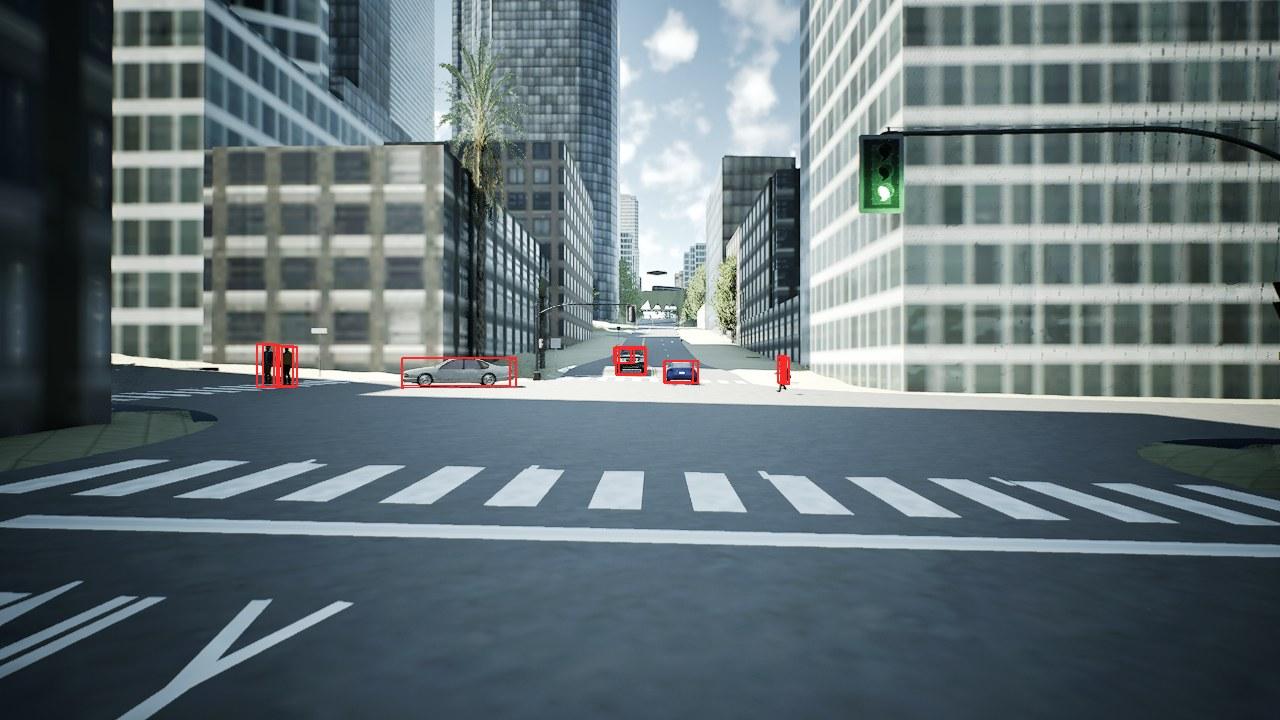
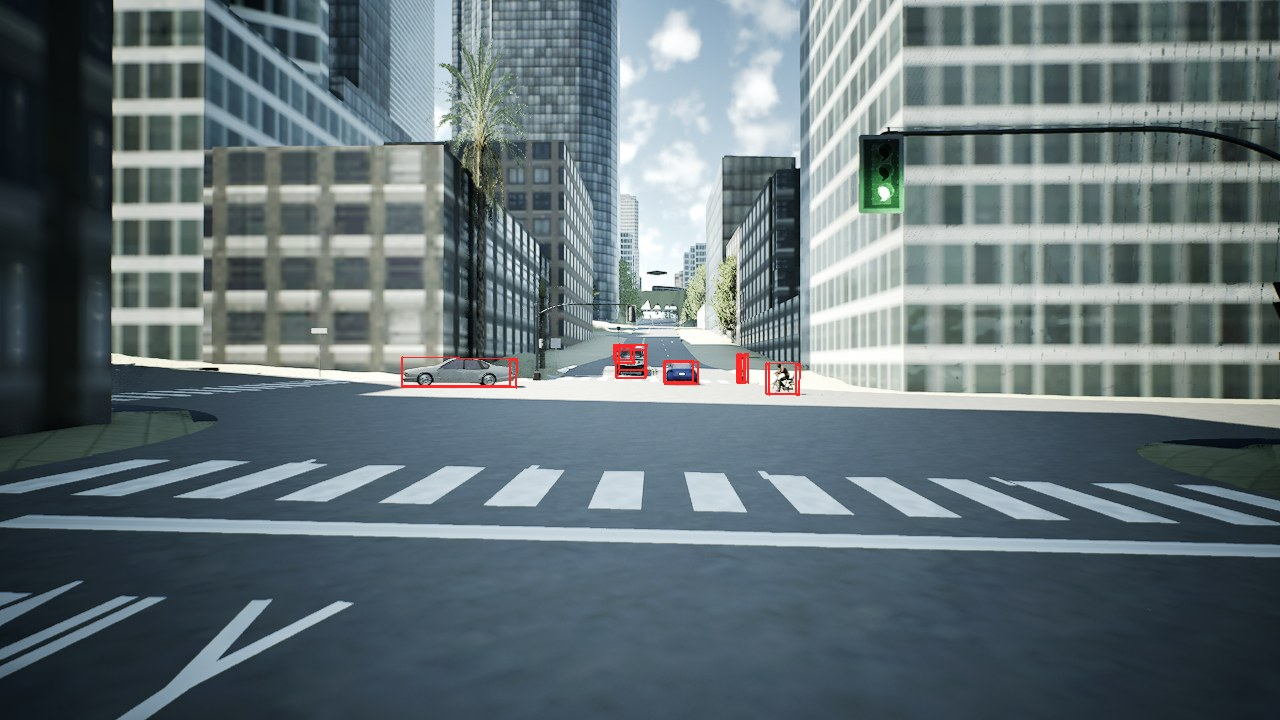
Recording fixes: moving bike, walker speed, ground heights; raw dumps; pipeline script
- static.prop.mesh ignores set_transform; spawned with mass > 0 (then physics off) it moves (prop_motion_test.py);
  the cyclist's box is the bike mesh's measured box (CARLA reports an inconsistent box for a rotated prop)
- CARLA ue5-dev walks a WalkerControl speed v at v * 200 / 4096 (WalkerController.cpp divides by a hard-coded
  4096 cm/s; the line setting MaxWalkSpeed to it is disabled for UE5): commands scaled by 4096 / 200, measured 0.0488 x
- road heights for every kinematic pose computed before any actor exists (projections hit the vehicle's own roof:
  1604 fallbacks in rec01, 0 now); walker boxes turned to the walking direction
- --raw dumps BGRA buffers and raw_to_png.py converts in parallel: 30 min -> 4 min per recording
- run_pipeline.ps1: recording + re-simulation, PNG, instance map, dataset, NCore, exposure check, train, evaluate, report

Changed region(s): [[0.4688, 0.4583, 0.625, 0.55], [0.3125, 0.4889, 0.4062, 0.55], [0.1875, 0.4583, 0.25, 0.55]]

diff --git a/scenario/record.py b/scenario/record.py
@@ -19,7 +19,7 @@ controller (their deviation from the live run is measured), the ego is parked ou
 the front camera's intrinsics follow the recorded ego pose at lateral offsets (ego frame, + = right); RGB / depth /
 instance images every EVERY-th tick -> OUT/novel/off_<dy>/..., poses -> OUT/replay.json. (CARLA's recorder replays
 the kinematic actors 1-2 ticks late in this build, so its replay is not used for ground truth.)
-usage: record.py PLAN_JSON OUT [--probe] [--ticks N] [--res 1280x720]
+usage: record.py PLAN_JSON OUT [--probe] [--ticks N] [--res 1280x720] [--raw]
        record.py PLAN_JSON OUT --novel LIVE_REC [--offsets -3,-2,-1,0,1,2,3] [--every 4]"""
 import json, math, os, queue, subprocess, sys, time, traceback
 import carla
@@ -37,6 +37,14 @@ NOVEL = os.path.abspath(sys.argv[sys.argv.index("--novel") + 1]) if "--novel" in
 OFFS = [float(v) for v in (sys.argv[sys.argv.index("--offsets") + 1] if "--offsets" in sys.argv else "-3,-2,-1,0,1,2,3").split(",")]
 EVERY = int(sys.argv[sys.argv.index("--every") + 1]) if "--every" in sys.argv else 4
 LIVE = [json.loads(l) for l in open(os.path.join(NOVEL, "frames.jsonl"))] if NOVEL else None
+RAW = "--raw" in sys.argv          # dump BGRA buffers (fast); convert/raw_to_png.py writes the PNGs afterwards
+
+
+def save_img(d, path_png):
+    if RAW:
+        open(path_png[:-4] + ".bgra", "wb").write(bytes(d.raw_data))
+    else:
+        d.save_to_disk(path_png)
 RES = sys.argv[sys.argv.index("--res") + 1] if "--res" in sys.argv else "1280x720"
 W, H = (int(v) for v in RES.split("x"))
 plan = json.load(open(PLAN))
@@ -156,8 +164,9 @@ def blueprint(a, i):
         b = next((w for w in walkers if w.id == want), walkers[(3 * i) % len(walkers)])
         if b.has_attribute("is_invincible"):
             b.set_attribute("is_invincible", "false")
-    elif a["kind"] == "bike":
-        b = bl.find("static.prop.mesh"); b.set_attribute("mesh_path", BIKE_MESH)
+    elif a["kind"] == "bike":                              # mass > 0 makes the prop movable (tested: without it
+        b = bl.find("static.prop.mesh"); b.set_attribute("mesh_path", BIKE_MESH)   # set_transform does nothing)
+        b.set_attribute("mass", "15")
     else:
         pool = cars or sorted(bl.filter("vehicle.*"), key=lambda b: b.id)
         b = next((x for x in bl.filter("vehicle.*") if x.id == PREF.get(a["name"])), pool[i % len(pool)])
@@ -176,11 +185,18 @@ ground_miss = [0]
 
 
 def ground_z(x, y, z_hint):
-    p = world.ground_projection(carla.Location(x, y, z_hint + 3.0), 8.0)
-    if p is not None and p.label in GROUND:
-        return p.location.z
+    """road-mesh height under (x, y); started lower when a pole / tree / sign is hit first"""
+    for up in (3.0, 1.5, 0.8):
+        p = world.ground_projection(carla.Location(x, y, z_hint + up), up + 5.0)
+        if p is not None and p.label in GROUND:
+            return p.location.z
     ground_miss[0] += 1
     return z_hint
+
+
+GROUND_CACHE = {}
+# the CrossBike mesh's own box (measured at yaw 0, rider_pose.py); CARLA reports an inconsistent box for a rotated prop
+BIKE_BB = carla.BoundingBox(carla.Location(0.0, 0.0, 0.539), carla.Vector3D(0.737, 0.418, 0.530))
 
 
 def kin_pose(a, k, bb):
@@ -188,11 +204,32 @@ def kin_pose(a, k, bb):
     x, y, z, yaw, _ = a["poses"][min(k, len(a["poses"]) - 1)]
     c, sn = math.cos(math.radians(yaw)), math.sin(math.radians(yaw))
     half = max(bb.extent.x * 0.6, 0.4)
-    zf, zr = ground_z(x + c * half, y + sn * half, z), ground_z(x - c * half, y - sn * half, z)
+    key = (a["name"], min(k, len(a["poses"]) - 1))
+    if key not in GROUND_CACHE:                     # normally filled before any actor exists (no self hits)
+        GROUND_CACHE[key] = (ground_z(x + c * half, y + sn * half, z), ground_z(x - c * half, y - sn * half, z))
+    zf, zr = GROUND_CACHE[key]
     pitch = math.degrees(math.atan2(zf - zr, 2 * half))
     base = bb.location.z - bb.extent.z                       # box bottom relative to the actor origin
     return carla.Transform(carla.Location(x, y, (zf + zr) / 2 - base + 0.01), carla.Rotation(pitch=pitch, yaw=yaw))
 
+
+# ---------------------------------------------------------------- road heights for every kinematic pose, before any actor
+# exists (a projection started above a spawned vehicle would hit its own roof); box sizes from a parked copy
+t_g = time.time()
+_probe = {}
+for a in (plan["actors"] if not NOVEL else []):
+    if a["kind"] not in ("car", "bike"):
+        continue
+    if a["kind"] == "bike":
+        bb_ = BIKE_BB
+    else:
+        tmp = world.try_spawn_actor(blueprint(a, 0), carla.Transform(carla.Location(0, 0, 500 + 10 * len(_probe))))
+        bb_ = tmp.bounding_box; tmp.destroy(); _probe[a["name"]] = 1
+    for k in (range(len(a["poses"])) if not a["static"] else [0]):
+        kin_pose(a, k, bb_)
+world.tick()
+print("road heights: %d poses, %d misses, %.0f s" % (len(GROUND_CACHE), ground_miss[0], time.time() - t_g), flush=True)
+ground_miss_precompute = ground_miss[0]
 
 # ---------------------------------------------------------------- recorder (before the actors exist)
 rec_file = os.path.join(OUT, "recording.log")
@@ -230,7 +267,7 @@ def place_kinematic(k):
     """Kinematic actors to plan pose k (riders follow their bike); returns nothing."""
     for name, (a, act) in actors.items():
         if a["kind"] in ("car", "bike") and (not a["static"] or k == 0):
-            tf = kin_pose(a, k, act.bounding_box)
+            tf = kin_pose(a, k, BIKE_BB if a["kind"] == "bike" else act.bounding_box)
             act.set_transform(tf)
             if a["kind"] == "bike" and "cyclist_rider" in actors:
                 actors["cyclist_rider"][1].set_transform(rider_tf(tf))
@@ -333,6 +370,13 @@ def collect(frame):
     return got
 
 
+# CARLA ue5-dev WalkerController.cpp: AddMovementInput(direction, Control.Speed / GetMaximumWalkSpeed()) with the
+# maximum hard-coded to 4096 cm/s, while the line that would set the character's MaxWalkSpeed to it is disabled for
+# UE5 ("#if 0 //@ Carla UE5"); the walker blueprints keep MaxWalkSpeed = 200 cm/s. A commanded speed v therefore walks
+# at v * 200 / 4096 (measured: 0.0488 x, three walkers, rec03). The command is scaled back (reachable: <= 2.0 m/s).
+WALKER_SPEED_GAIN = 4096.0 / 200.0
+
+
 def walker_step(a, act, k):
     """Walk towards the planned position of tick k+1 (look-ahead 1 m); speed corrected for lag (+-30 %)."""
     tx, ty = a["poses"][min(k + 1, TICKS)][:2]
@@ -346,14 +390,14 @@ def walker_step(a, act, k):
     ax, ay = (nx - loc.x, ny - loc.y) if math.hypot(nx - loc.x, ny - loc.y) > 1.0 else (dx, dy)
     n = math.hypot(ax, ay) or 1.0
     sp = min(max(v_plan + 0.8 * err * (1 if (dx * ax + dy * ay) > 0 else -1), 0.0), max(v_plan * 1.3, 0.6))
-    return carla.WalkerControl(carla.Vector3D(ax / n, ay / n, 0), sp)
+    return carla.WalkerControl(carla.Vector3D(ax / n, ay / n, 0), sp * WALKER_SPEED_GAIN)
 
 
 def actor_rows(snap):
     rows = []
     for name, (a, act) in actors.items():
         s_ = snap.find(act.id)
-        bb = act.bounding_box
+        bb = BIKE_BB if a["kind"] == "bike" else act.bounding_box
         v, w_ = s_.get_velocity(), s_.get_angular_velocity()
         rows.append(dict(name=name, id=act.id, type_id=act.type_id, cls=a["cls"], kind=a["kind"], static=a["static"],
                          tf=tf_list(s_.get_transform()), bbox=[bb.location.x, bb.location.y, bb.location.z,
@@ -446,7 +490,7 @@ try:
             if k % EVERY == 0:
                 cams_tf = {}
                 for (dy, mod), d in got.items():
-                    d.save_to_disk(os.path.join(OUT, "novel", "off_%s" % dy, mod, "%04d.png" % k))
+                    save_img(d, os.path.join(OUT, "novel", "off_%s" % dy, mod, "%04d.png" % k))
                     cams_tf["%s/%s" % (dy, mod)] = tf_list(d.transform)
                 views.append(dict(frame=k, tick=k, cams=cams_tf))
             if k % 20 == 0:
@@ -473,13 +517,15 @@ try:
                     name = "lidar" if mod == "lidar" else "semlidar"
                     open(os.path.join(OUT, name, "%04d.bin" % k), "wb").write(bytes(d.raw_data))
                 else:
-                    d.save_to_disk(os.path.join(OUT, "cam", cam, mod, "%04d.png" % k))
+                    save_img(d, os.path.join(OUT, "cam", cam, mod, "%04d.png" % k))
             fj.write(json.dumps(row) + "\n")
             if k % 20 == 0:
                 print("tick %d/%d  %.0f s  gpu %s" % (k, TICKS, time.time() - t_start, gpu_mem()), flush=True)
     meta["wall_s"] = time.time() - t_start
     meta["gpu_after"] = gpu_mem()
     meta["ground_miss"] = ground_miss[0]
+    meta["ground_miss_precompute"] = ground_miss_precompute
+    meta["ground_poses"] = len(GROUND_CACHE)
 finally:
     fj.close()
     json.dump(meta, open(os.path.join(OUT, "meta.json"), "w"), indent=1)

diff --git a/evaluate/report.py b/evaluate/report.py
@@ -23,18 +23,23 @@ L.append("## Held-out on-path views (every %s-th tick, all cameras; %d images)\n
 L.append("| camera | PSNR dB | SSIM | LPIPS (alex) |\n|---|---|---|---|")
 for c, v in h["per_camera"].items():
     L.append("| %s | %s | %s | %s |" % (c, f2(v["psnr"]), f2(v["ssim"], 3), f2(v["lpips"], 3)))
-L.append("| **all** | **%s** | **%s** | **%s** |" % (f2(h["psnr"]), f2(h["ssim"], 3), f2(h["lpips"], 3)))
+L.append("| **all, raw** | **%s** | **%s** | **%s** |" % (f2(h["psnr"]), f2(h["ssim"], 3), f2(h["lpips"], 3)))
+L.append("| all, exposure-aligned | %s | %s | %s |" % (f2(h["aligned"]["psnr"]), f2(h["aligned"]["ssim"], 3), f2(h["aligned"]["lpips"], 3)))
+L.append("\nRaw: the rendering as is. Exposure-aligned: a per-image affine colour fit between rendering and ground truth "
+         "first (CARLA's automatic exposure differs per image; the model never saw these images' exposure).")
 d = h["depth"]
 L.append("\nDepth vs CARLA depth (non-sky, < 80 m, alpha > 0.5): AbsRel %s, RMSE %s m, median |error| %s m, delta<1.25 %s.\n"
          % (f2(d["absrel"], 3), f2(d["rmse"]), f2(d["median_abs"], 3), f2(d["d125"], 3)))
-L.append("## Novel views off the driven path (front camera, replayed scenario)\n")
-L.append("| lateral offset | views | PSNR dB | SSIM | LPIPS | depth AbsRel | depth median abs m |\n|---|---|---|---|---|---|---|")
+L.append("## Novel views off the driven path (front camera shifted sideways, CARLA re-simulation)\n")
+L.append("| lateral offset (+ = right) | views | PSNR dB | SSIM | LPIPS | PSNR / SSIM / LPIPS exposure-aligned | depth AbsRel | depth median abs m |\n|---|---|---|---|---|---|---|---|")
 for k, v in M["novel"].items():
-    L.append("| %s m | %d | %s | %s | %s | %s | %s |" % (k, v["n"], f2(v["psnr"]), f2(v["ssim"], 3), f2(v["lpips"], 3),
-                                                   f2(v["depth"]["absrel"], 3), f2(v["depth"]["median_abs"], 3)))
+    al = v["aligned"]
+    L.append("| %s m | %d | %s | %s | %s | %s / %s / %s | %s | %s |" % (k, v["n"], f2(v["psnr"]), f2(v["ssim"], 3), f2(v["lpips"], 3),
+             f2(al["psnr"]), f2(al["ssim"], 3), f2(al["lpips"], 3), f2(v["depth"]["absrel"], 3), f2(v["depth"]["median_abs"], 3)))
 nf = M["replay_noise_floor"]
-L.append("\nReplay noise floor (replayed front camera at offset 0, ego hidden, vs the live recording, ego pixels excluded): "
-         "PSNR %s dB, SSIM %s, LPIPS %s over %d frames. Replayed actor positions vs live ground truth (mean / max m): %s.\n"
+L.append("\nRe-simulation noise floor (re-simulated front camera at offset 0, ego parked out of view, vs the live "
+         "recording, ego pixels excluded; differences come from walker animation, the missing ego shadow and exposure): "
+         "PSNR %s dB, SSIM %s, LPIPS %s over %d frames. Re-simulated actor positions vs the live run (mean / max m): %s.\n"
          % (f2(nf["psnr"]), f2(nf["ssim"], 3), f2(nf["lpips"], 3), nf["n"],
             ", ".join("%s %.3f/%.3f" % (n, v["mean_m"], v["max_m"]) for n, v in nf["replay_pose_error"].items())))
 if M.get("novel_skipped"):
@@ -59,6 +64,18 @@ for n in sorted(set(A["mask_iou"]) | set(A["geometry"])):
              " x ".join(f2(v) for v in geo.get("extent_rec", [])) or "-", " x ".join(f2(v) for v in geo.get("box_size", [])) or "-",
              f2(geo.get("centre_offset_m"), 3)))
 L.append("\n%s\n" % A["note"])
+if "recorder_replay_fidelity.json" in extra:
+    r = extra["recorder_replay_fidelity.json"]
+    L.append("CARLA recorder replay (not used for ground truth): best alignment %s; replayed actor position error vs the live "
+             "run (mean / max m): %s.\n" % (r["alignment"].split(": ", 1)[-1], ", ".join("%s %.2f/%.2f" % (n, v["mean_m"], v["max_m"])
+             for n, v in r["pose_error_vs_live_m"].items() if v["mean_m"] < 100)))
+if M.get("box_refinement"):
+    b = M["box_refinement"]
+    L.append("## Actor boxes from a noisy tracker (noise %s m, deg per frame)\n" % b["noise"])
+    L.append("| boxes | position error mean / median (m) | yaw error mean (deg) | box-frames |\n|---|---|---|---|")
+    for k in ("given", "refined"):
+        L.append("| %s | %s / %s | %s | %d |" % (k, f2(b[k]["pos_mean_m"], 3), f2(b[k]["pos_median_m"], 3), f2(b[k]["yaw_mean_deg"], 2), b[k]["n"]))
+    L.append("")
 if "exposure_check.json" in extra:
     s = extra["exposure_check.json"]["summary"]
     L.append("## Exposure check\n")

diff --git a/scenario/prop_motion_test.py b/scenario/prop_motion_test.py
@@ -1,0 +1,84 @@
+"""Can a static.prop.mesh actor be moved kinematically in this CARLA build? (venv38, server running)
+Variants: (a) plain spawn + set_transform, (b) spawned with mass > 0 (physics -> movable) then physics off +
+set_transform, (c) attached to a walker that is moved. Reports the transform the server returns after each move and
+saves a picture of each variant before / after.
+usage: prop_motion_test.py OUT"""
+import json, os, queue, sys, traceback
+import carla
+
+sys.excepthook = lambda *e: (traceback.print_exception(*e), sys.stdout.flush(), os._exit(1))
+OUT = os.path.abspath(sys.argv[1]); os.makedirs(OUT, exist_ok=True)
+MESH = "/Game/Carla/Static/Bicycle/CrossBike/SM_sc_crossbike.SM_sc_crossbike"
+client = carla.Client("localhost", 2000); client.set_timeout(600.0)
+world = client.get_world()
+s = world.get_settings(); s.synchronous_mode = True; s.fixed_delta_seconds = 0.1; world.apply_settings(s)
+bl = world.get_blueprint_library()
+pb = bl.find("static.prop.mesh")
+attrs = {a.id: str(a) for a in pb}
+print("static.prop.mesh attributes:", json.dumps(attrs), flush=True)
+gz = world.ground_projection(carla.Location(428, 506, 90), 20).location.z
+res, actors = {}, []
+
+
+def cam(loc, yaw):
+    b = bl.find("sensor.camera.rgb")
+    for k, v in (("image_size_x", "640"), ("image_size_y", "360"), ("fov", "70")):
+        b.set_attribute(k, v)
+    c = world.spawn_actor(b, carla.Transform(loc, carla.Rotation(yaw=yaw, pitch=-10)))
+    q = queue.Queue(); c.listen(q.put); actors.append(c)
+    return q
+
+
+try:
+    variants = {}
+    b = bl.find("static.prop.mesh"); b.set_attribute("mesh_path", MESH)
+    variants["a_plain"] = world.spawn_actor(b, carla.Transform(carla.Location(422, 500, gz + 0.02)))
+    b = bl.find("static.prop.mesh"); b.set_attribute("mesh_path", MESH)
+    if b.has_attribute("mass"):
+        b.set_attribute("mass", "15")
+    variants["b_mass"] = world.spawn_actor(b, carla.Transform(carla.Location(422, 504, gz + 0.3)))
+    wb = bl.find("walker.pedestrian.0015")
+    walker = world.spawn_actor(wb, carla.Transform(carla.Location(422, 508, gz + 1.0)))
+    walker.set_simulate_physics(False)
+    b = bl.find("static.prop.mesh"); b.set_attribute("mesh_path", MESH)
+    variants["c_attached"] = world.spawn_actor(b, carla.Transform(carla.Location(0, 0, -0.9)), attach_to=walker,
+                                               attachment_type=carla.AttachmentType.Rigid)
+    actors += list(variants.values()) + [walker]
+    for _ in range(5):
+        world.tick()
+    variants["b_mass"].set_simulate_physics(False)
+    q = cam(carla.Location(422, 494, gz + 4.0), 90)
+    for _ in range(3):
+        world.tick()
+    start = {k: variants[k].get_transform().location for k in variants}
+    img0 = None
+    while not q.empty():
+        img0 = q.get()
+    img0.save_to_disk(os.path.join(OUT, "props_before.png"))
+    for step in range(1, 11):                              # move everything +0.5 m in x per tick
+        for k in ("a_plain", "b_mass"):
+            t = variants[k].get_transform(); t.location.x = start[k].x + 0.5 * step
+            variants[k].set_transform(t)
+        t = walker.get_transform(); t.location.x = 422 + 0.5 * step
+        walker.set_transform(t)
+        world.tick()
+    img1 = None
+    while not q.empty():
+        img1 = q.get()
+    img1.save_to_disk(os.path.join(OUT, "props_after.png"))
+    for k, a in variants.items():
+        e = a.get_transform().location
+        res[k] = dict(start_x=round(start[k].x, 3), end_x=round(e.x, 3), moved_m=round(e.x - start[k].x, 3))
+    print(json.dumps(res), flush=True)
+    json.dump(dict(attributes=attrs, result=res), open(os.path.join(OUT, "prop_motion.json"), "w"), indent=1)
+finally:
+    for a in actors[::-1]:
+        try:
+            if a.type_id.startswith("sensor"):
+                a.stop()
+            a.destroy()
+        except RuntimeError:
+            pass
+    s = world.get_settings(); s.synchronous_mode = False; s.fixed_delta_seconds = None; world.apply_settings(s)
+print("done", flush=True)
+os._exit(0)

diff --git a/scenario/plan.py b/scenario/plan.py
@@ -229,12 +229,14 @@ right_n, right_f = sorted(right_cw, key=lambda p: p[0] * fwd[0] + p[1] * fwd[1])
 w_bike = m.get_waypoint(carla.Location(461.2, 522.7, 83.2))        # cross street lane -4, 5 m before the junction
 assert w_bike.lane_id == -4 and not w_bike.is_junction, (w_bike.road_id, w_bike.lane_id)
 bike_path = offset(join(back(w_bike, 40.0), follow(w_bike, 95.0, prefer=(3920,))[0]), 1.1)   # near the kerb
+# CARLA walkers do not walk off a ledge (they stop at the kerb when leaving the sidewalk; stepping up is fine):
+# pedestrians start on the road 0.5 m inside the crosswalk and step up onto the far sidewalk
 peds = {
-    "ped_far_0": walk_line(far_r, far_l, 2.5, lateral=0.5),
-    "ped_far_1": walk_line(far_r, far_l, 2.5, lateral=-0.6),
-    "ped_left_0": walk_line(left_f, left_n, 2.5, lateral=0.5),
-    "ped_left_1": walk_line(left_f, left_n, 2.5, lateral=-0.5),
-    "ped_right_0": walk_line(right_n, right_f, 2.5, lateral=0.0),
+    "ped_far_0": walk_line(far_r, far_l, -0.5, lateral=0.5, ext_end=2.5),
+    "ped_far_1": walk_line(far_r, far_l, -0.5, lateral=-0.6, ext_end=2.5),
+    "ped_left_0": walk_line(left_f, left_n, -0.5, lateral=0.5, ext_end=2.5),
+    "ped_left_1": walk_line(left_f, left_n, -0.5, lateral=-0.5, ext_end=2.5),
+    "ped_right_0": walk_line(right_n, right_f, -0.5, lateral=0.0, ext_end=2.5),
 }
 
 # cars waiting at the red light on the cross street (road 3920 lanes -1, -2 enter the junction at these points)

diff --git a/convert/to_dataset.py b/convert/to_dataset.py
@@ -55,9 +55,12 @@ for fr in frames:
     for a in fr["actors"]:
         if a["id"] == ego_id or a["id"] in MERGE:
             continue
+        bb = list(a["bbox"])
+        if abs(abs(bb[7]) - 90.0) < 1.0:                            # walker boxes come rotated by 90 deg: heading = walking
+            bb[3], bb[4], bb[7] = bb[4], bb[3], 0.0                 # direction, length along it
         d = actors.setdefault(a["id"], dict(name=a["name"], cls=a["cls"], kind=a["kind"], type_id=a["type_id"],
-                                            size=[2 * a["bbox"][3], 2 * a["bbox"][4], 2 * a["bbox"][5]], track={}))
-        T_box = pose(a["bbox"][:3] + a["bbox"][6:9])                 # box centre in the actor frame (FLU)
+                                            size=[2 * bb[3], 2 * bb[4], 2 * bb[5]], track={}))
+        T_box = pose(bb[:3] + bb[6:9])                                # box centre in the actor frame (FLU)
         d["track"][fr["tick"]] = (pose(a["tf"]) @ T_box).tolist()
 for aid, d in actors.items():
     P = np.array([np.array(T)[:3, 3] for T in d["track"].values()])

diff --git a/convert/raw_to_png.py b/convert/raw_to_png.py
@@ -1,0 +1,24 @@
+"""Convert the BGRA buffers of `record.py --raw` into RGB PNGs (same pixels as CARLA's save_to_disk), in parallel,
+and delete the raw files. usage: raw_to_png.py REC_DIR [--workers 12]"""
+import glob, json, os, sys
+from multiprocessing import Pool
+import numpy as np
+from PIL import Image
+
+
+def conv(args):
+    p, w, h = args
+    a = np.fromfile(p, np.uint8).reshape(h, w, 4)
+    Image.fromarray(a[..., [2, 1, 0]]).save(p[:-5] + ".png", compress_level=1)
+    os.remove(p)
+    return 1
+
+
+if __name__ == "__main__":
+    rec = sys.argv[1]
+    workers = int(sys.argv[sys.argv.index("--workers") + 1]) if "--workers" in sys.argv else 12
+    w, h = json.load(open(os.path.join(rec, "meta.json")))["res"]
+    files = glob.glob(os.path.join(rec, "**", "*.bgra"), recursive=True)
+    with Pool(workers) as pool:
+        n = sum(pool.imap_unordered(conv, [(f, w, h) for f in files], chunksize=16))
+    print("converted", n, "images")

diff --git a/docs/notes.md b/docs/notes.md
@@ -91,3 +91,19 @@ Measured, see `convert/conventions.json`:
   blueprints exist in Content. The cyclist is CARLA's CrossBike mesh (`static.prop.mesh`) with a pedestrian posed
   as rider through the walker bone API (pose solved offline by inverse kinematics, `scenario/rider_ik.py`).
 - The audit spot's lane (road 933, lane -1) is a left-turn-only lane; the ego drives straight from lane -3.
+- `static.prop.mesh` actors ignore `set_transform` (static mobility; a plain prop moved 0.0 m after ten moves).
+  Spawned with `mass` > 0 and physics then switched off they move as commanded (5.0 m for 10 x 0.5 m)
+  (`scenario/prop_motion_test.py`). The first recording (`rec01`) had a parked bike and a floating rider because of
+  this; it was re-recorded (`rec02`).
+- CARLA's recorder replays kinematically placed actors (vehicles, the bike, the rider) 1-2 ticks late: replayed
+  positions 0.5-0.9 m off on average, up to 1.8 m at 9 m/s; walkers replay within ~5 mm. The live recording itself is
+  consistent (every moving car's pixels fall inside its ground-truth box, purity 1.00). Novel-view ground truth
+  therefore comes from a re-simulation that places every kinematic actor at its recorded transform
+  (`record.py --novel`); the recorder file is kept.
+- `world.ground_projection` from 3 m above a spawned kinematic vehicle hits its own roof; heights are now computed
+  for all planned poses before any actor is spawned (in `rec01` 1604 projections fell back to the OpenDRIVE lane
+  height, which also produced spurious pitch of a few degrees).
+- Instance ids map one-to-one to actors (purity >= 0.81 with padded boxes); semantic-lidar `object_idx` equals the
+  actor id (id 0 = static world).
+- Walker bounding boxes are reported rotated by -90 deg in the actor frame; the converter swaps the extents so a
+  pedestrian box's heading is the walking direction.
